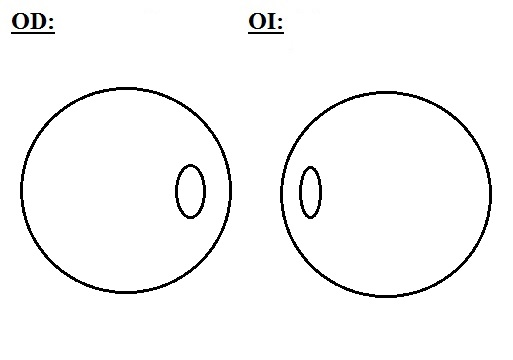
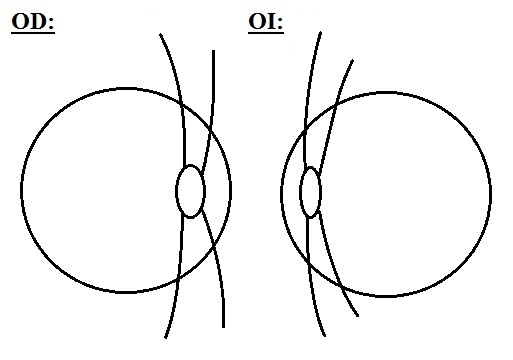
Finalizacion parcial del formulario de evoluciones (falta funcionalidad general)

diff --git a/css/style.css b/css/style.css
@@ -4580,6 +4580,11 @@ div#tabla-notificados-contenedor .titulo::after {
     text-align: center;
 }
 
+#evoluciones-cargar-contenedor .motilidad {
+    row-gap: 30px;
+    justify-content: stretch;
+}
+
 .evolucion-separador {
     padding: 5px;
 }

diff --git a/cruds/historias_evoluciones.crud.php b/cruds/historias_evoluciones.crud.php
@@ -254,11 +254,17 @@
                 <div>Pruebas & Motilidad</div>
               </div>
 
+              <div class="columnas" style="margin-top: 10px">
+                <div>
+                  <label style="font-size: 20px; border-bottom: 1px solid; width: 100%;">PRUEBAS</label>
+                </div>
+              </div>
+
+
               <div class="columnas" style="align-items: end;">
               
                 <div>
                   
-                  <label>Pruebas</label>
                   <select data-valor="pruebas" class="evoluciones-valores upper">
                     <option value="0">COVER TEST (CT)</option>
                     <option value="1">KRIMSKY TEST (KY)</option>
@@ -334,7 +340,7 @@
 
               <div class="columnas" style="margin-top: 10px">
                 <div>
-                  <label>MOTILIDAD</label>
+                  <label style="font-size: 20px; border-bottom: 1px solid; width: 100%;">MOTILIDAD</label>
                 </div>
               </div>
 
@@ -351,38 +357,38 @@
 
                   <div class="motilidad borde-estilizado">
 
-                    <section>
-                      <input type="text" placeholder="---">
-                      <input type="text" placeholder="---">
+                    <section style="grid-template-columns: auto auto; align-self: end;">
+                      <input type="text" data-valor="motilidad_od_1" placeholder="---" class="evoluciones-valores upper" style="width: 80px">
+                      <input type="text" data-valor="motilidad_od_2" placeholder="---" class="evoluciones-valores upper" style="width: 80px; justify-self: flex-end;">
                     </section>
 
-                    <section>
-                      <input type="text" placeholder="---">
-                      <input type="text" placeholder="---">
+                    <section style="grid-template-columns: auto auto; align-self: center;">
+                      <input type="text" data-valor="motilidad_od_3" placeholder="---" class="evoluciones-valores upper" style="width: 80px">
+                      <input type="text" data-valor="motilidad_od_4" placeholder="---" class="evoluciones-valores upper" style="width: 80px; justify-self: flex-end;">
                     </section>
 
-                    <section>
-                      <input type="text" placeholder="---">
-                      <input type="text" placeholder="---">
+                    <section style="grid-template-columns: auto auto; align-self: start;">
+                      <input type="text" data-valor="motilidad_od_5" placeholder="---" class="evoluciones-valores upper" style="width: 80px">
+                      <input type="text" data-valor="motilidad_od_6" placeholder="---" class="evoluciones-valores upper" style="width: 80px; justify-self: flex-end;">
                     </section>
 
                   </div>
 
                   <div class="motilidad borde-estilizado">
 
-                    <section>
-                      <input type="text" placeholder="---">
-                      <input type="text" placeholder="---">
+                   <section style="grid-template-columns: auto auto; align-self: end;">
+                      <input type="text" data-valor="motilidad_oi_1" placeholder="---" class="evoluciones-valores upper" style="width: 80px">
+                      <input type="text" data-valor="motilidad_oi_2" placeholder="---" class="evoluciones-valores upper" style="width: 80px; justify-self: flex-end;">
                     </section>
 
-                    <section>
-                      <input type="text" placeholder="---">
-                      <input type="text" placeholder="---">
+                    <section style="grid-template-columns: auto auto; align-self: center;">
+                      <input type="text" data-valor="motilidad_oi_3" placeholder="---" class="evoluciones-valores upper" style="width: 80px">
+                      <input type="text" data-valor="motilidad_oi_4" placeholder="---" class="evoluciones-valores upper" style="width: 80px; justify-self: flex-end;">
                     </section>
 
-                    <section>
-                      <input type="text" placeholder="---">
-                      <input type="text" placeholder="---">
+                    <section style="grid-template-columns: auto auto; align-self: start;">
+                      <input type="text" data-valor="motilidad_oi_5" placeholder="---" class="evoluciones-valores upper" style="width: 80px">
+                      <input type="text" data-valor="motilidad_oi_6" placeholder="---" class="evoluciones-valores upper" style="width: 80px; justify-self: flex-end;">
                     </section>
 
                   </div>
@@ -618,7 +624,7 @@
 
                 <section class="dibujar-contenedor-v">
                 
-                  <canvas id="fondo-imagen" width="513" height="309"></canvas>
+                  <canvas id="fondo-imagen" width="513" height="360"></canvas>
 
                 </section>
 
